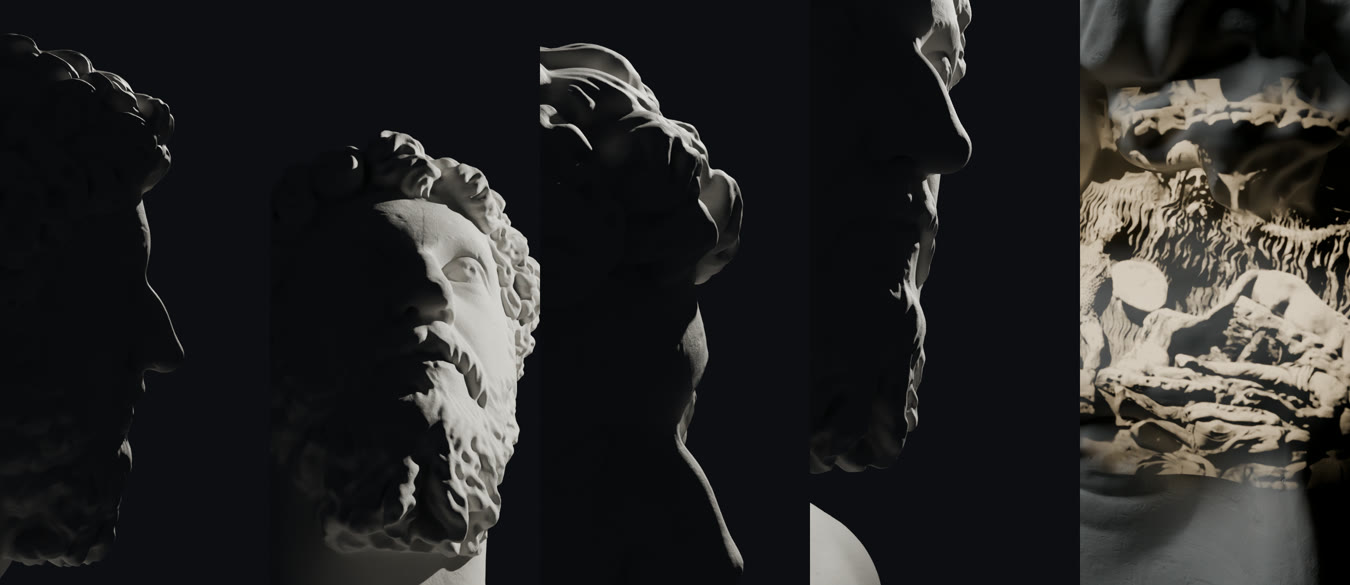
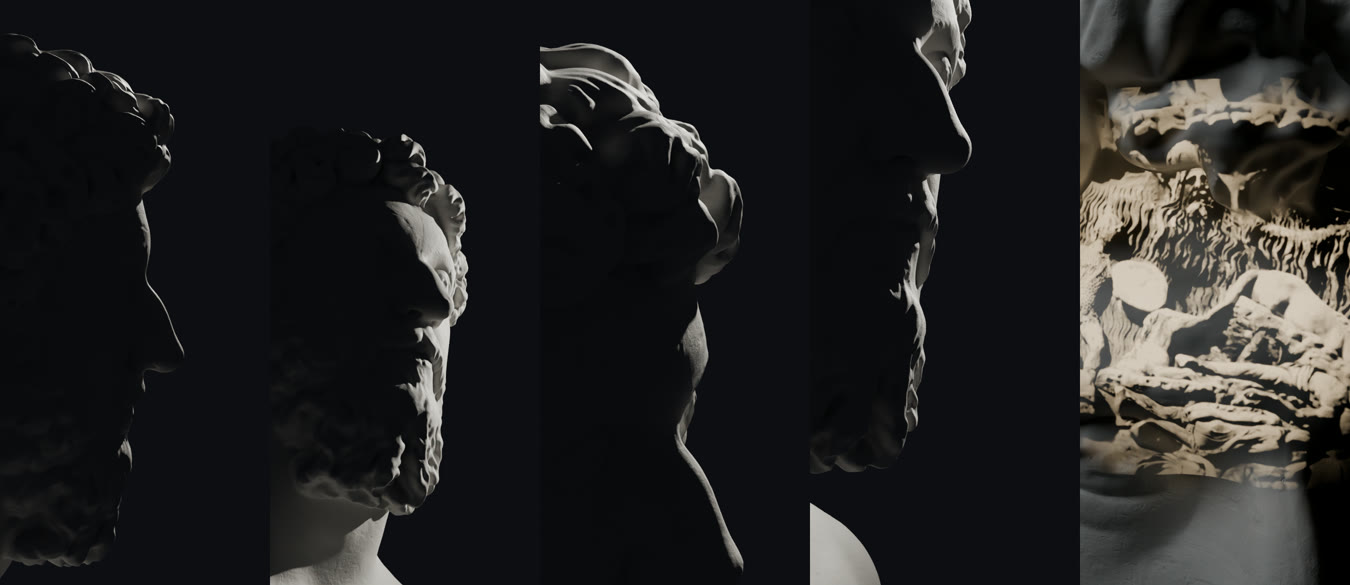
Linnanrakentaja: ajattelijat v11 — parran alta otettu alkukuva varjon puolelle (x ≤ −0,22), luvut uudelleen

Changed region(s): [[0.1867, 0.2154, 0.4044, 1.0]]

diff --git a/tools/linssit/blender/sokrates_bysti.py b/tools/linssit/blender/sokrates_bysti.py
@@ -879,7 +879,8 @@ if KOHDE == 'marcus':   # tuuheat kiharat ja parta varjostavat enemmän → auri
 V11_AURINKO = (1.0, 0.05, 0.5)
 if V11:   # omistaja 3.10.: alkukuvat varjon puolelta → kamera valon vastapuolelle (−x), aurinko takaviistoon (+y ≥ 0,5):
     # kasvot jäävät varjoon ja niistä erottuu kirkas ääriviiva. Rembrandt + nimi (282) ennallaan.
-    V7_OTOKSET = tuple((r_, ((-abs(c_[0]),) + tuple(c_[1:])) if r_ < 282 else c_, q_, mm_) for r_, c_, q_, mm_ in V7_OTOKSET)
+    # x ≤ −0,22: parran alta otettu kuva (x −0,05) jäi lähes eteen ja kasvot valaistuivat ¾-kulmasta (Päätoimittaja 3.10.)
+    V7_OTOKSET = tuple((r_, ((min(-abs(c_[0]), -0.22),) + tuple(c_[1:])) if r_ < 282 else c_, q_, mm_) for r_, c_, q_, mm_ in V7_OTOKSET)
     # Kokeet 3.10.: takaa tuleva aurinko (y ≥ 0,5) jätti kasvot mustiksi ja valaisi vain päälaen → aurinko kameran
     # vastakkaiselta sivulta (+x, y ≈ 0, hieman ylhäältä): kasvojen profiili (otsa, nenä, huulet, parta) piirtyy valona.
     # avausruutu (vasen profiili −x:stä): valo hieman edestä, jotta nenän ja huulten reuna syttyy
